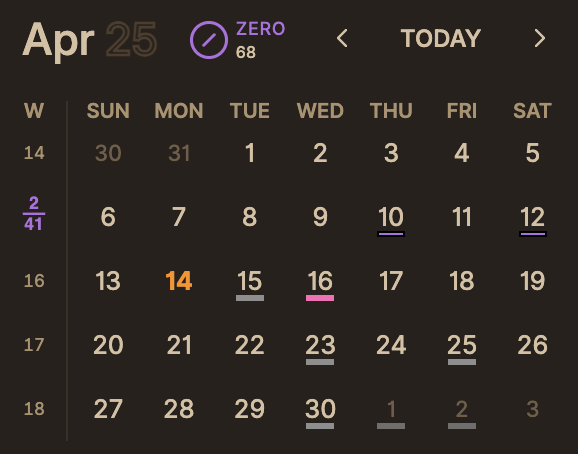
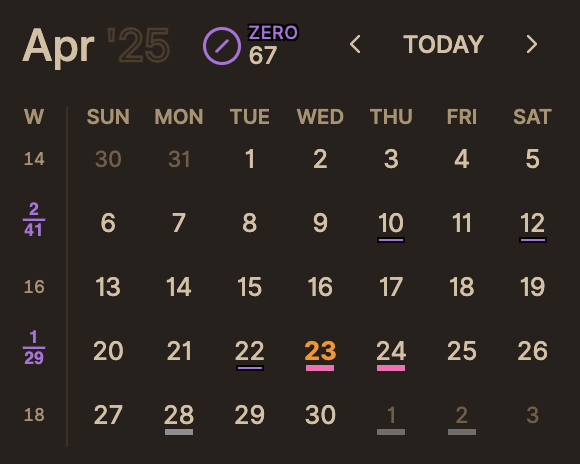
Fix stage indicator text with text-shadow outline effect and update screenshot

diff --git a/styles.css b/styles.css
@@ -155,15 +155,20 @@ If your plugin does not need CSS, delete this file.
     text-transform: uppercase;
     letter-spacing: 0.3px;
     line-height: 1;
+    text-shadow: 
+        -1px -1px 0 #000000,
+        1px -1px 0 #000000,
+        -1px 1px 0 #000000,
+        1px 1px 0 #000000;
 }
 
 /* Stage count below the stage indicator */
 .stage-count {
-    font-size: 8px;
+    font-size: 12px;
     text-align: center;
     line-height: 1;
     display: block;
-    margin-top: 3px;
+    margin-top: 1px;
 }
 
 /* Stage colors using icon SVGs */
@@ -216,7 +221,7 @@ If your plugin does not need CSS, delete this file.
     background: none;
     border: none;
     cursor: pointer;
-    padding: 4px 6px;
+    padding: 4px 2px; /* Reduce horizontal padding */
     display: flex;
     align-items: center;
     justify-content: center;
@@ -235,7 +240,7 @@ If your plugin does not need CSS, delete this file.
     font-weight: 500;
     position: relative;
     top: -1px;
-    padding: 4px 8px !important;
+    padding: 4px 4px !important; /* Reduce horizontal padding, maintain vertical */
     background: none !important;
     border: none !important;
     color: var(--text-normal);
@@ -493,122 +498,6 @@ td.clickable-cell:hover::before {
 .revision-part.overdue {
     background-color: var(--color-overdue);
 }
-
-/* LEGEND STYLING - COMMENTED OUT AS LEGEND MOVED TO HEADER */
-/*
-.calendar-legend-separator {
-    height: 1px;
-    background-color: var(--background-modifier-border);
-    margin: 6px 0;
-}
-
-.legend-wrapper {
-    display: flex;
-    justify-content: center;
-}
-
-.calendar-legend {
-    display: flex;
-    justify-content: space-around;
-    align-items: center;
-    flex-wrap: nowrap;
-    padding: 4px 0px;
-    background-color: var(--background-secondary);
-    border-radius: 6px;
-    transform-origin: center top;
-    transform: scale(0.8);
-    margin: 0 auto;
-    gap: 2px;
-    border: none;
-}
-
-@media (max-width: 600px) {
-    .calendar-legend {
-        flex-wrap: wrap;
-    }
-    .legend-item {
-        flex: 0 0 auto;
-        margin-bottom: 4px;
-    }
-}
-
-.legend-item {
-    display: flex;
-    align-items: center;
-    padding: 2px 4px;
-    margin: 1px 2px;
-    border: 1px solid transparent;
-    border-radius: 4px;
-}
-
-.legend-wrapper .calendar-legend .legend-item.current-stage {
-    border: 2px dashed var(--text-accent) !important;
-    background-color: var(--background-primary-alt);
-    padding: 2px 4px;
-    box-shadow: 0 0 3px rgba(0, 0, 0, 0.1);
-}
-
-.legend-swatch {
-    width: 17px;
-    height: 17px;
-    margin-right: 3px;
-    display: flex;
-    justify-content: center;
-    align-items: center;
-    background-color: transparent !important;
-    position: relative;
-}
-
-.legend-swatch svg {
-    width: 17px;
-    height: 17px;
-    stroke-width: 2px;
-    opacity: 1 !important;
-}
-
-.legend-swatch.stage-zero::after {
-    display: none;
-}
-
-.legend-swatch.stage-zero svg {
-    color: var(--color-zero) !important;
-}
-
-.legend-swatch.stage-author::after {
-    display: none;
-}
-
-.legend-swatch.stage-author svg {
-    color: var(--color-author) !important;
-}
-
-.legend-swatch.stage-house::after {
-    display: none;
-}
-
-.legend-swatch.stage-house svg {
-    color: var(--color-house) !important;
-}
-
-.legend-swatch.stage-press::after {
-    display: none;
-}
-
-.legend-swatch.stage-press svg {
-    color: var(--color-press) !important;
-}
-
-.legend-label {
-    font-size: 10px;
-    text-transform: uppercase;
-    letter-spacing: 0px;
-    white-space: nowrap;
-    margin: 0;
-    padding: 0;
-    font-weight: 200;
-    color: var(--text-normal);
-}
-*/
 
 /* SVG ICONS STYLING scoped to view content */
 .view-content button svg {
